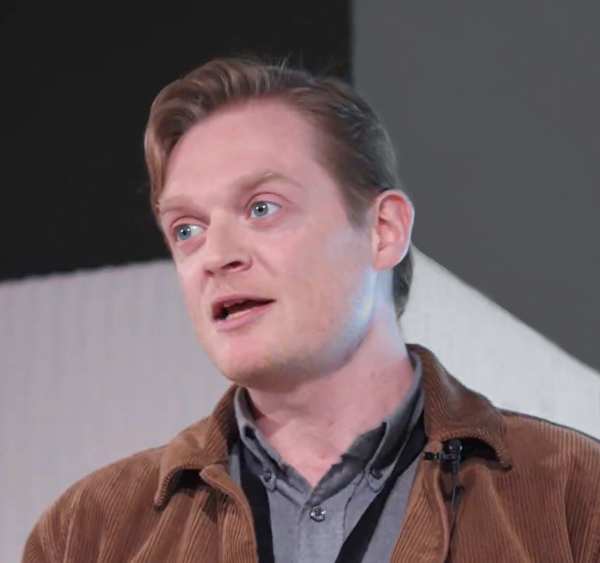
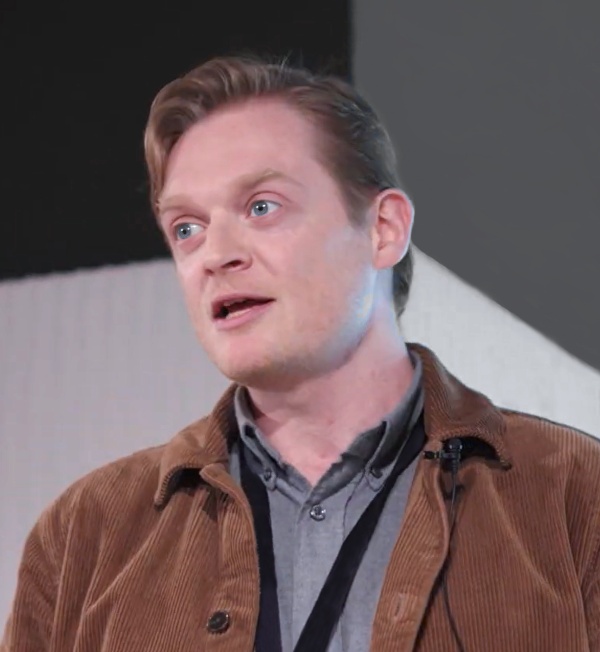
style updates

diff --git a/assets/css/core.css b/assets/css/core.css
@@ -31,18 +31,12 @@ body {
 }
 #intro img {
     float: right;
-    width: 33%;
-    margin: 1px 0px 5px 22px;
-    padding-left: 22px;
-    border-left: 1px solid;
-    border-image: 
-    linear-gradient(
-      to bottom,
-      hsla(4, 81.8%, 49.6%, 0.3),
-      hsla(4, 81.8%, 49.6%, 1) 3%,
-      hsla(4, 81.8%, 49.6%, 1) 97%,
-      hsla(4, 81.8%, 49.6%, 0.3)
-    ) 1 100%;
+    width: 30%;
+    height: 190px;
+    object-fit: cover;
+    object-position: center top;
+    border-radius: 3px;
+    margin: 1px 0px 5px 25px;
 }
 #main {
     padding: 0px 30px 45px 30px;
@@ -85,6 +79,7 @@ h2 {
     font-weight: var(--title-weight);
     font-size: var(--h2-size);
     margin: calc(var(--p-size)*2) 0 var(--p-size) 0;
+    clear: both;
 }
 p, li {
     color: var(--font-color);

diff --git a/index.html b/index.html
@@ -38,16 +38,16 @@
             <div id="intro">
                 <img src="/assets/images/profile2.png" />
                 
-                <p>I’m a researcher in human and artificial intelligence, interested in how we describe systems that think and feel. My work is based in cognitive linguistics, computer science and philosophy, and I broadly support the view that human intelligence cannot be reduced to data processing.</p>
+                <p>I’m a researcher in human and artificial intelligence, interested in how we describe systems that think and feel. Drawing on cognitive linguistics, computer science and philosophy, I support the view that intelligence is not reducible to data processing, making <a href="https://henryfarrell.net/wp-content/uploads/2025/03/Science-Accepted-Version.pdf" target="_blank">modern AI a cultural technology</a>.</p>
             </div>
-
-            <h2>AI Consulting</h2>
-
-            <p>Since 2019, I’ve worked in private industry on AI alignment and reasoning systems. I also offer consulting services to UK startups that need help building bridges between tech stack and product strategy. <a href="https://www.youtube.com/watch?v=kBD9kygMBqU" target="_blank">Here’s</a> an example of a talk I gave on the promise of neurosymbolic models for enterprise settings.</p>
 
             <h2>Writing</h2>
 
-            <p>I’m currently drafting a book on pseudoscience in the AI industry and I write <a href="https://callumhackett.substack.com/about" target="_blank"><em>Culture & Anarchy</em></a>, a newsletter about human progress viewed through the lenses of naturalism, pragmatism and Daoism. I’ve also published academic work <a href="https://bioling.psychopen.eu/index.php/bioling/article/view/9085" target="_blank">on the biological origins of language</a>.</p>
+            <p>I’m currently drafting a book on pseudoscience in the AI industry and I write <a href="https://callumhackett.substack.com/about" target="_blank"><em>Culture & Anarchy</em></a>, a newsletter about humanism viewed through the lenses of naturalism, pragmatism and Daoism. I’ve also published academic work <a href="https://bioling.psychopen.eu/index.php/bioling/article/view/9085" target="_blank">on the biological origins of language</a>.</p>
+
+            <h2>Consulting</h2>
+
+            <p>Since 2019, I’ve worked in private industry on AI alignment and reasoning systems. I offer consulting services to UK startups that need help building bridges between tech stack and product strategy. <a href="https://www.youtube.com/watch?v=kBD9kygMBqU" target="_blank">Here’s</a> an example of a talk I gave on the promise of neurosymbolic models for enterprise settings.</p>
         </div>
 
         <div id="footer">